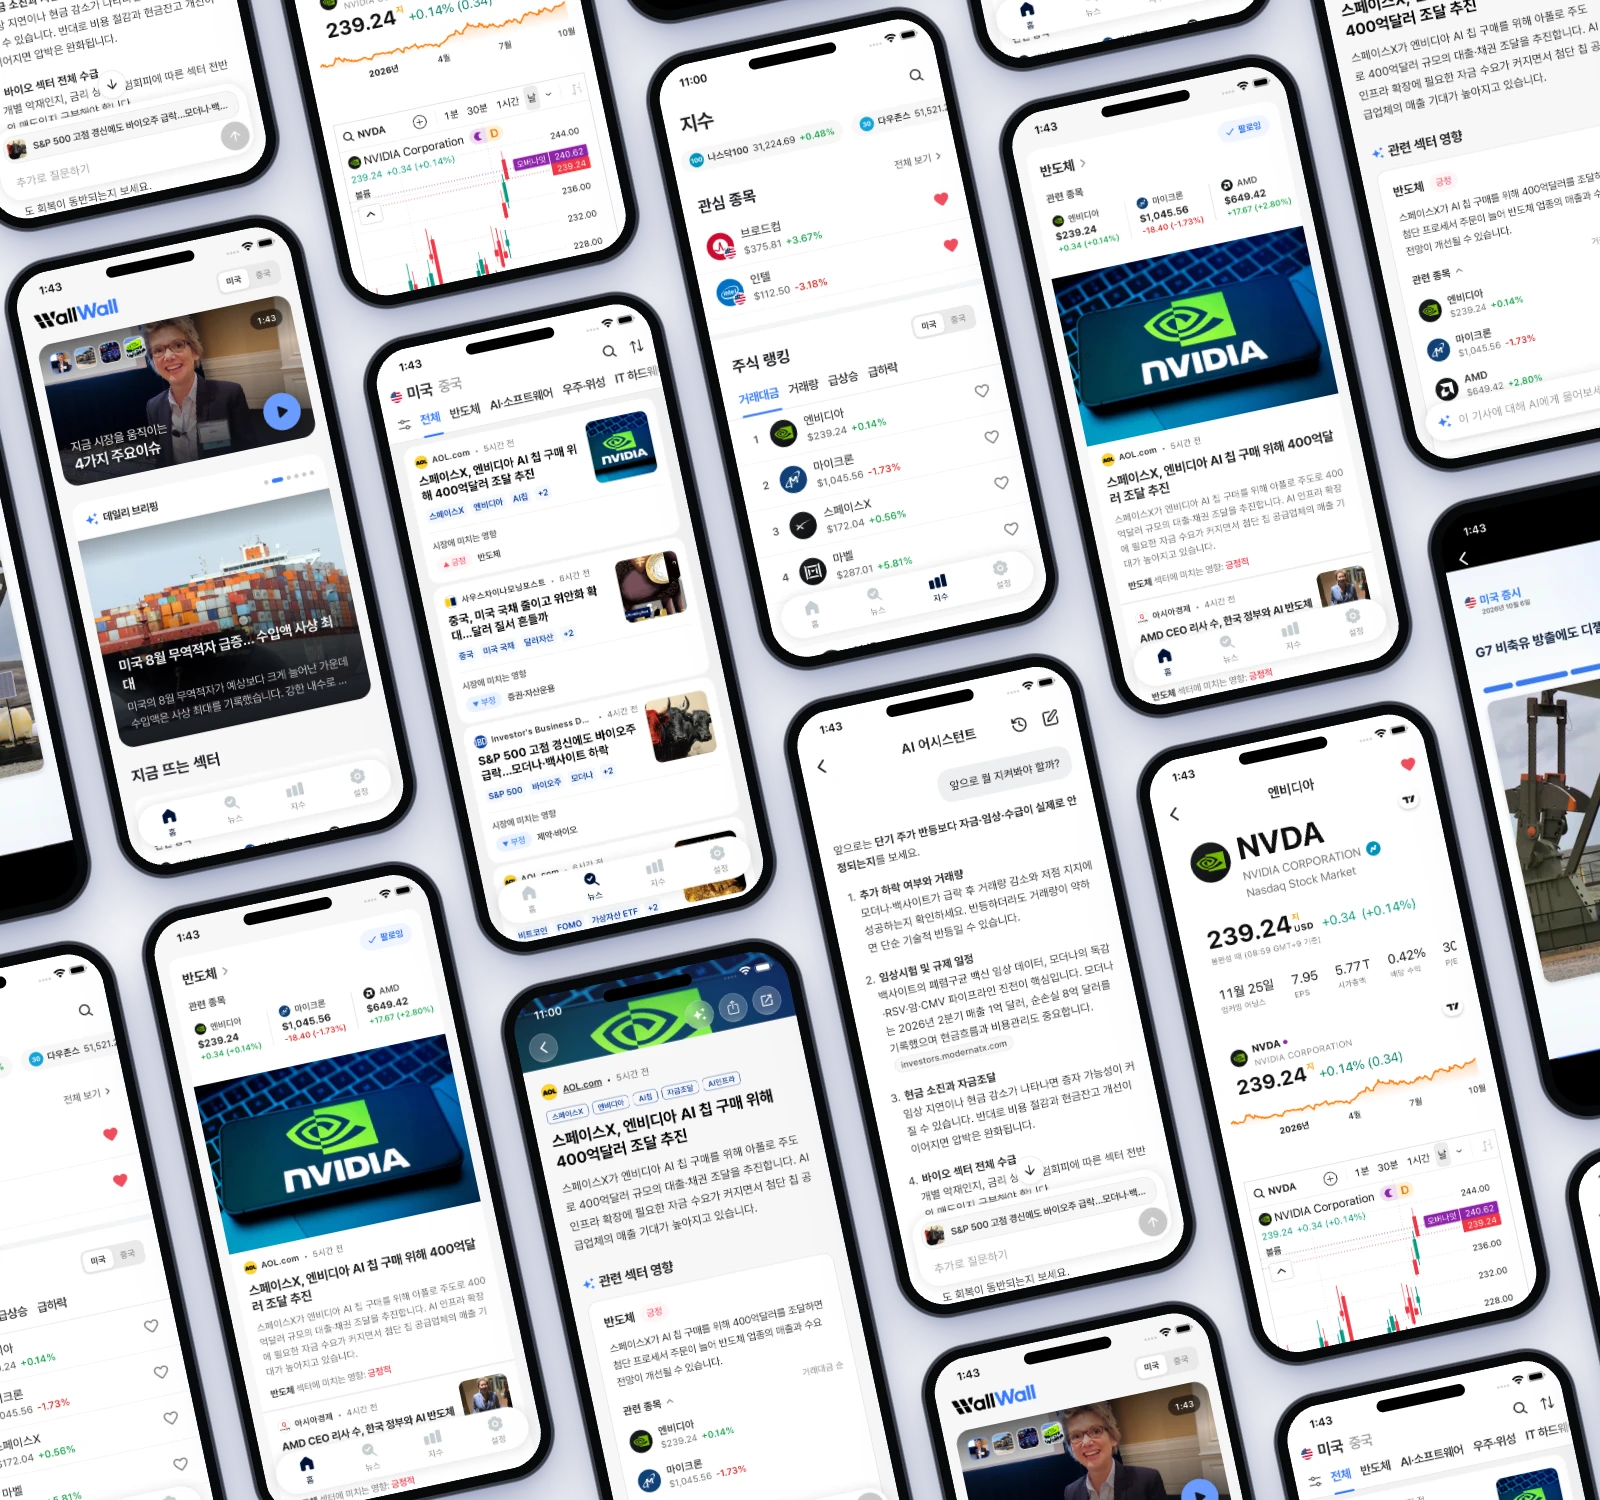
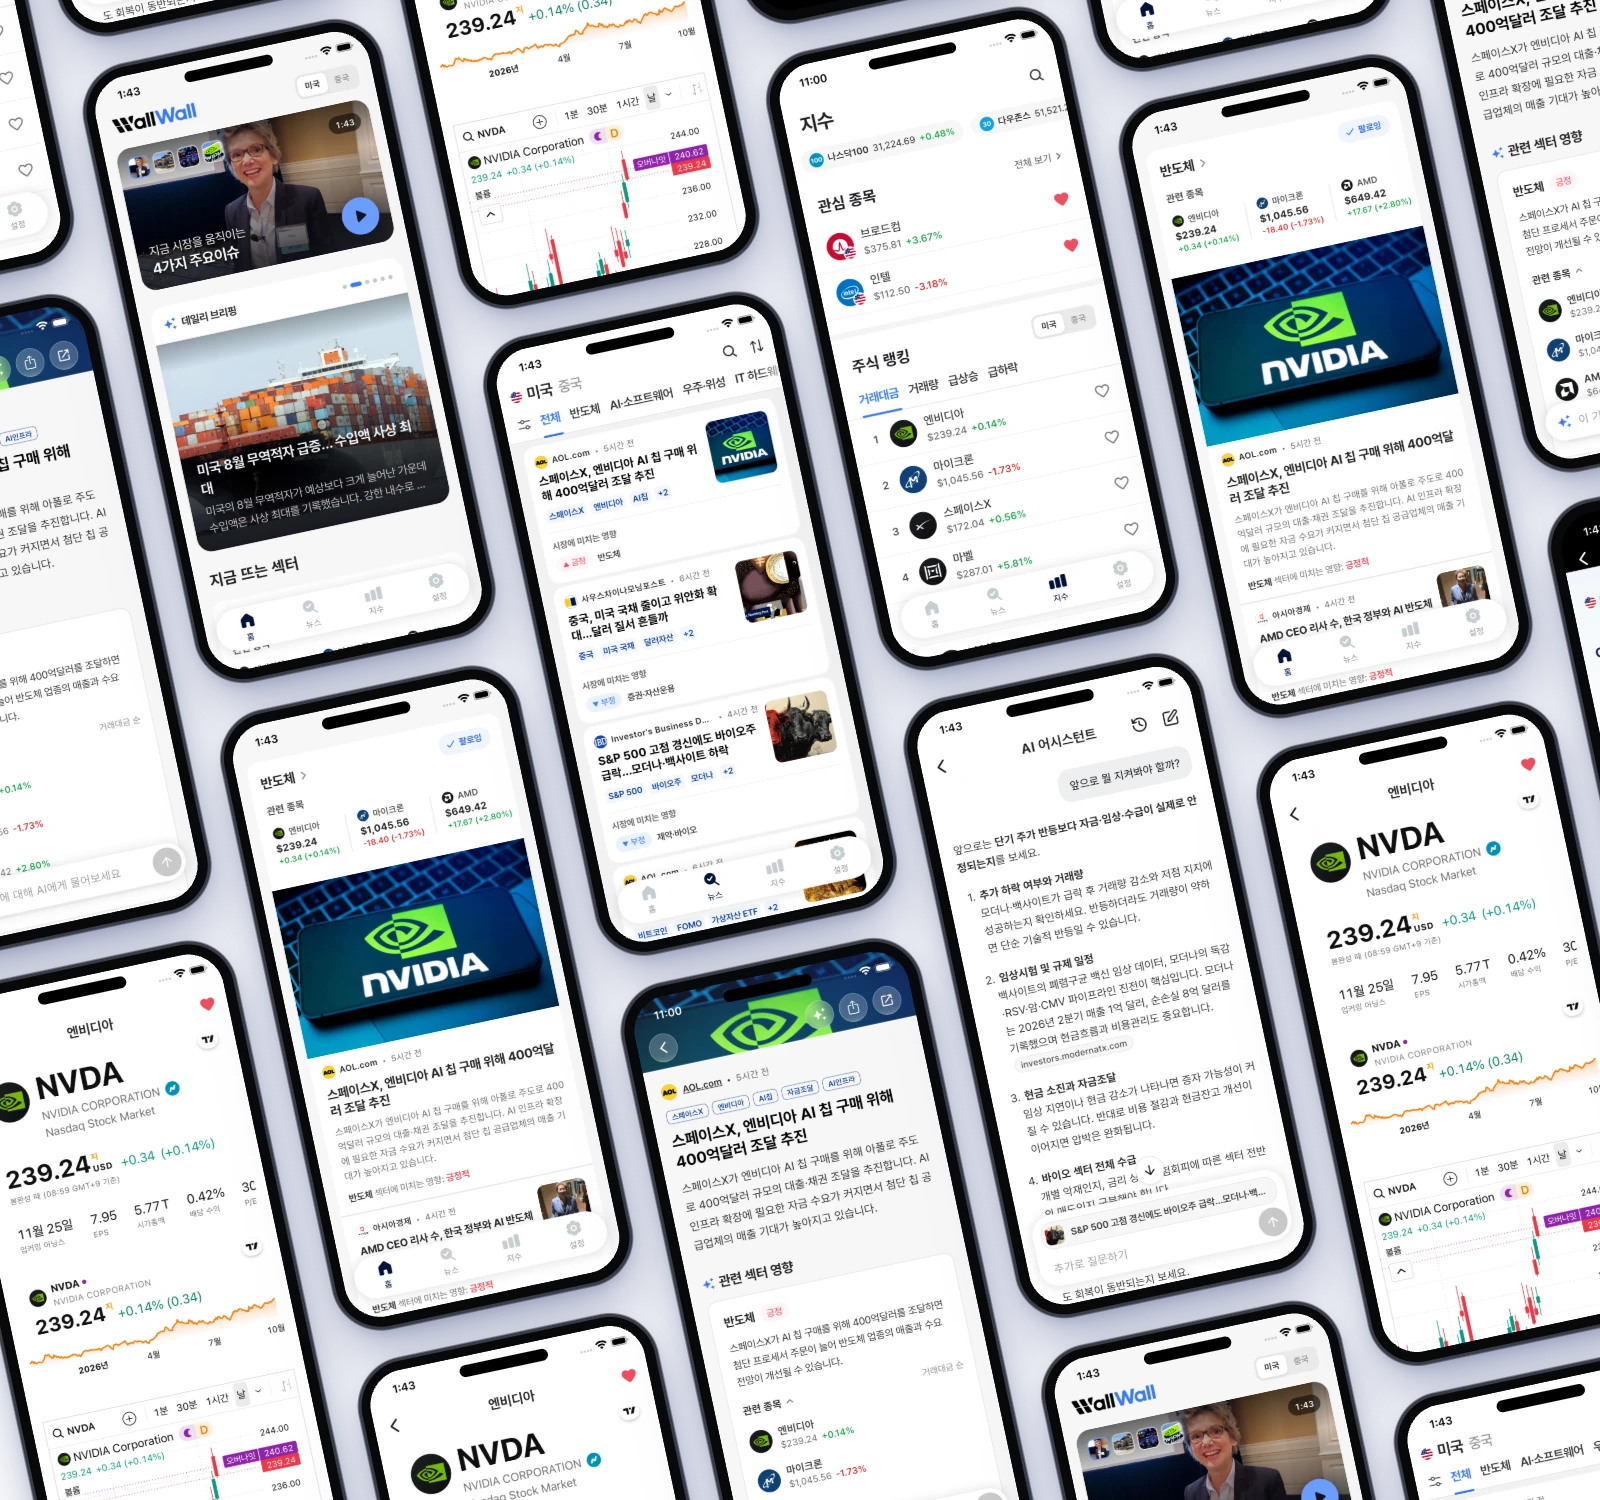
fix(home): extend hero wall beneath nav and stabilize screen placement
Context/purpose:
- The home hero wall was clipped at the content boundary and its lead screens shifted with the window shape.

- Allow the desktop hero image area to extend above the content boundary and fade only at the copy and footer edges.
- Anchor the hero screenshots to the top for consistent placement across window shapes.
- Refresh the English and Korean home hero screenshot assets.
- Document the source and update workflow for home hero screenshot assets in AGENTS.md.

diff --git a/styles/home.css b/styles/home.css
@@ -123,7 +123,6 @@ body {
 @media (min-width: 969px) {
     .main-content {
         position: relative;
-        overflow: hidden;
         min-height: 640px;
     }
 
@@ -136,18 +135,21 @@ body {
 
     .intro-image-area {
         position: absolute;
-        top: 0;
+        /* Tucks under the fixed nav, over the body's top padding, so the wall runs out from beneath it. */
+        top: -30px;
         bottom: 0;
         right: 0;
         left: max(44%, calc(50% - 120px));
-        -webkit-mask-image: linear-gradient(90deg, transparent 0%, #000 22%), linear-gradient(180deg, transparent 0%, #000 10%, #000 90%, transparent 100%);
+        /* Fades only where the wall meets the copy, and into the footer. */
+        -webkit-mask-image: linear-gradient(90deg, transparent 0%, #000 6%), linear-gradient(180deg, #000 90%, transparent 100%);
         -webkit-mask-composite: source-in;
-        mask-image: linear-gradient(90deg, transparent 0%, #000 22%), linear-gradient(180deg, transparent 0%, #000 10%, #000 90%, transparent 100%);
+        mask-image: linear-gradient(90deg, transparent 0%, #000 6%), linear-gradient(180deg, #000 90%, transparent 100%);
         mask-composite: intersect;
     }
 
+    /* Top-anchored so the lead screens sit at the same place whatever the window's shape. */
     .intro-image {
-        object-position: left center;
+        object-position: left top;
     }
 }
 

diff --git a/AGENTS.md b/AGENTS.md
@@ -7,6 +7,7 @@ WallWall public GitHub Pages for Amuse8.
 - Links that must open a specific language use `/ko/<page>` or `/<page>?lang=en`; a bare `/<page>` follows the visitor's browser language.
 - Use root-absolute asset and stylesheet paths (`/nav.css`, `/assets/...`) so root and `ko/` pages share them.
 - Each language describes only the markets it ships: Korean pages say 미국과 중국, English pages say U.S. and Korea. Never mention the other language's market pair or that coverage differs by language.
+- `assets/app_intro_screenshots_<lang>.webp` (the home hero) are rendered from app screenshots in `/Users/user/Projects/a_news/docs/Code/app-store-screenshots/`; to change them, follow the landing hero part of that folder's `README.md` instead of editing the images here.
 - `privacy.html`, `terms.html`, `ko/privacy.html`, `ko/terms.html`, and `styles/doc-page.css` are the published policy docs.
 - Keep Flutter bundled copies in sync in `/Users/user/Projects/a_news/assets/html/`: `privacy.html`/`terms.html` mirror `ko/`, `privacy_en.html`/`terms_en.html` mirror the root pages, plus `doc-page.css`. The bundled copies are the same `<section class="doc-card">` body with no nav and no `<h1 class="doc-title">`.
 - When privacy or terms change here, update the Flutter copies in the same change
